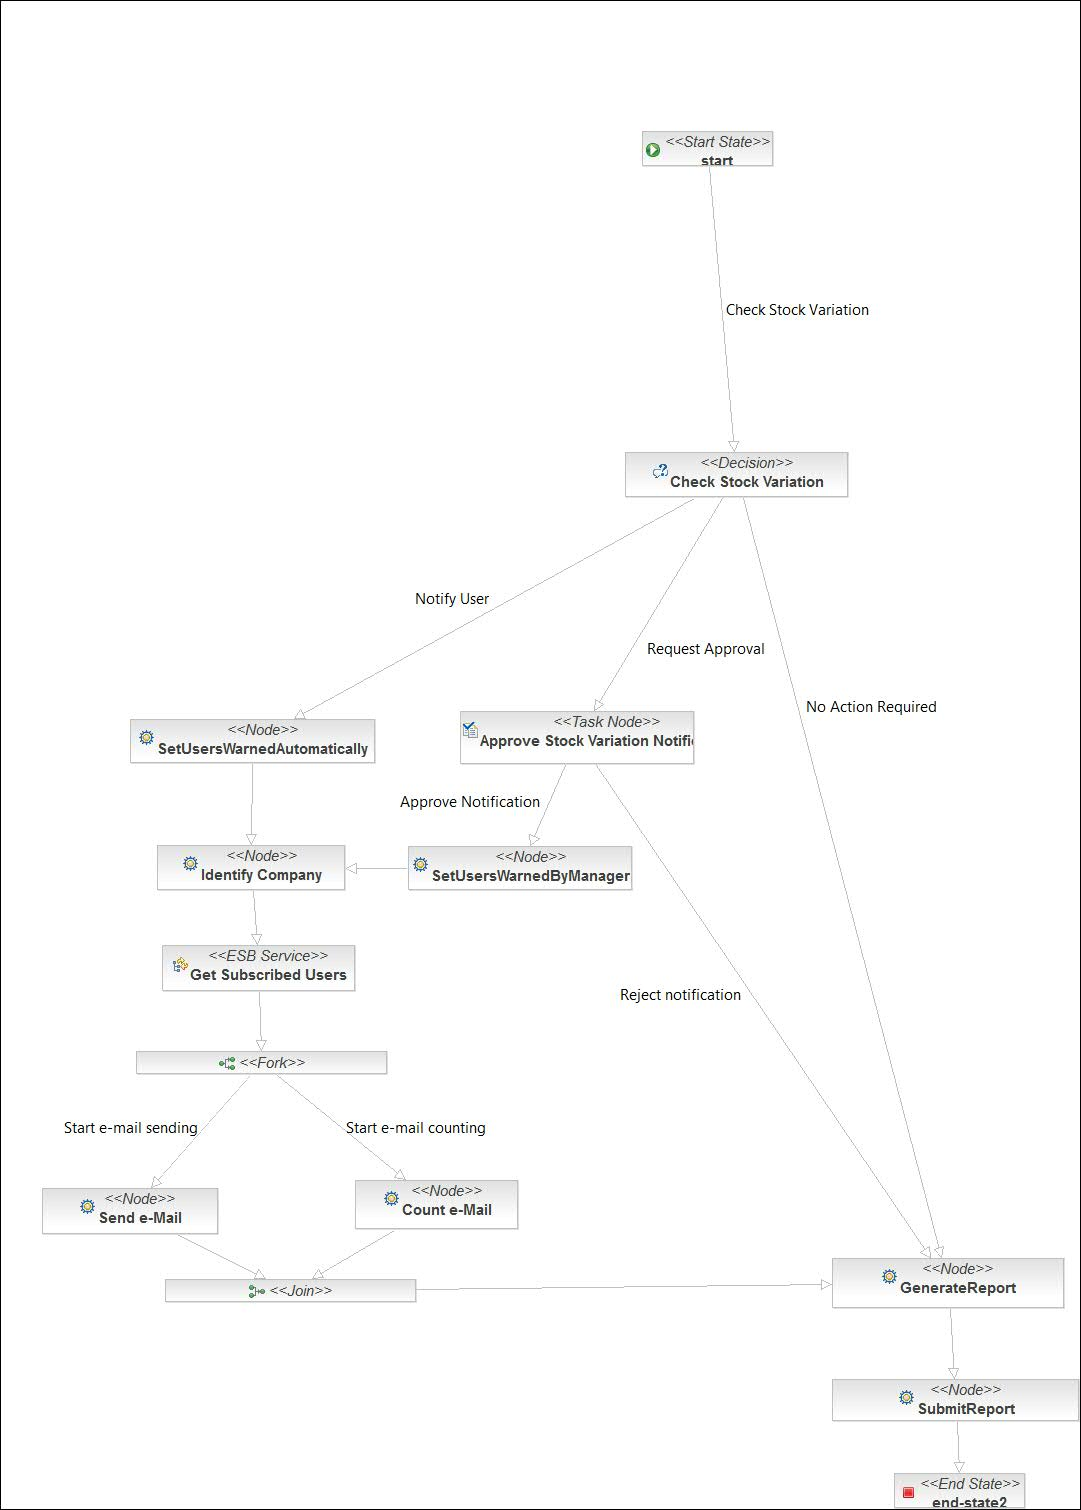
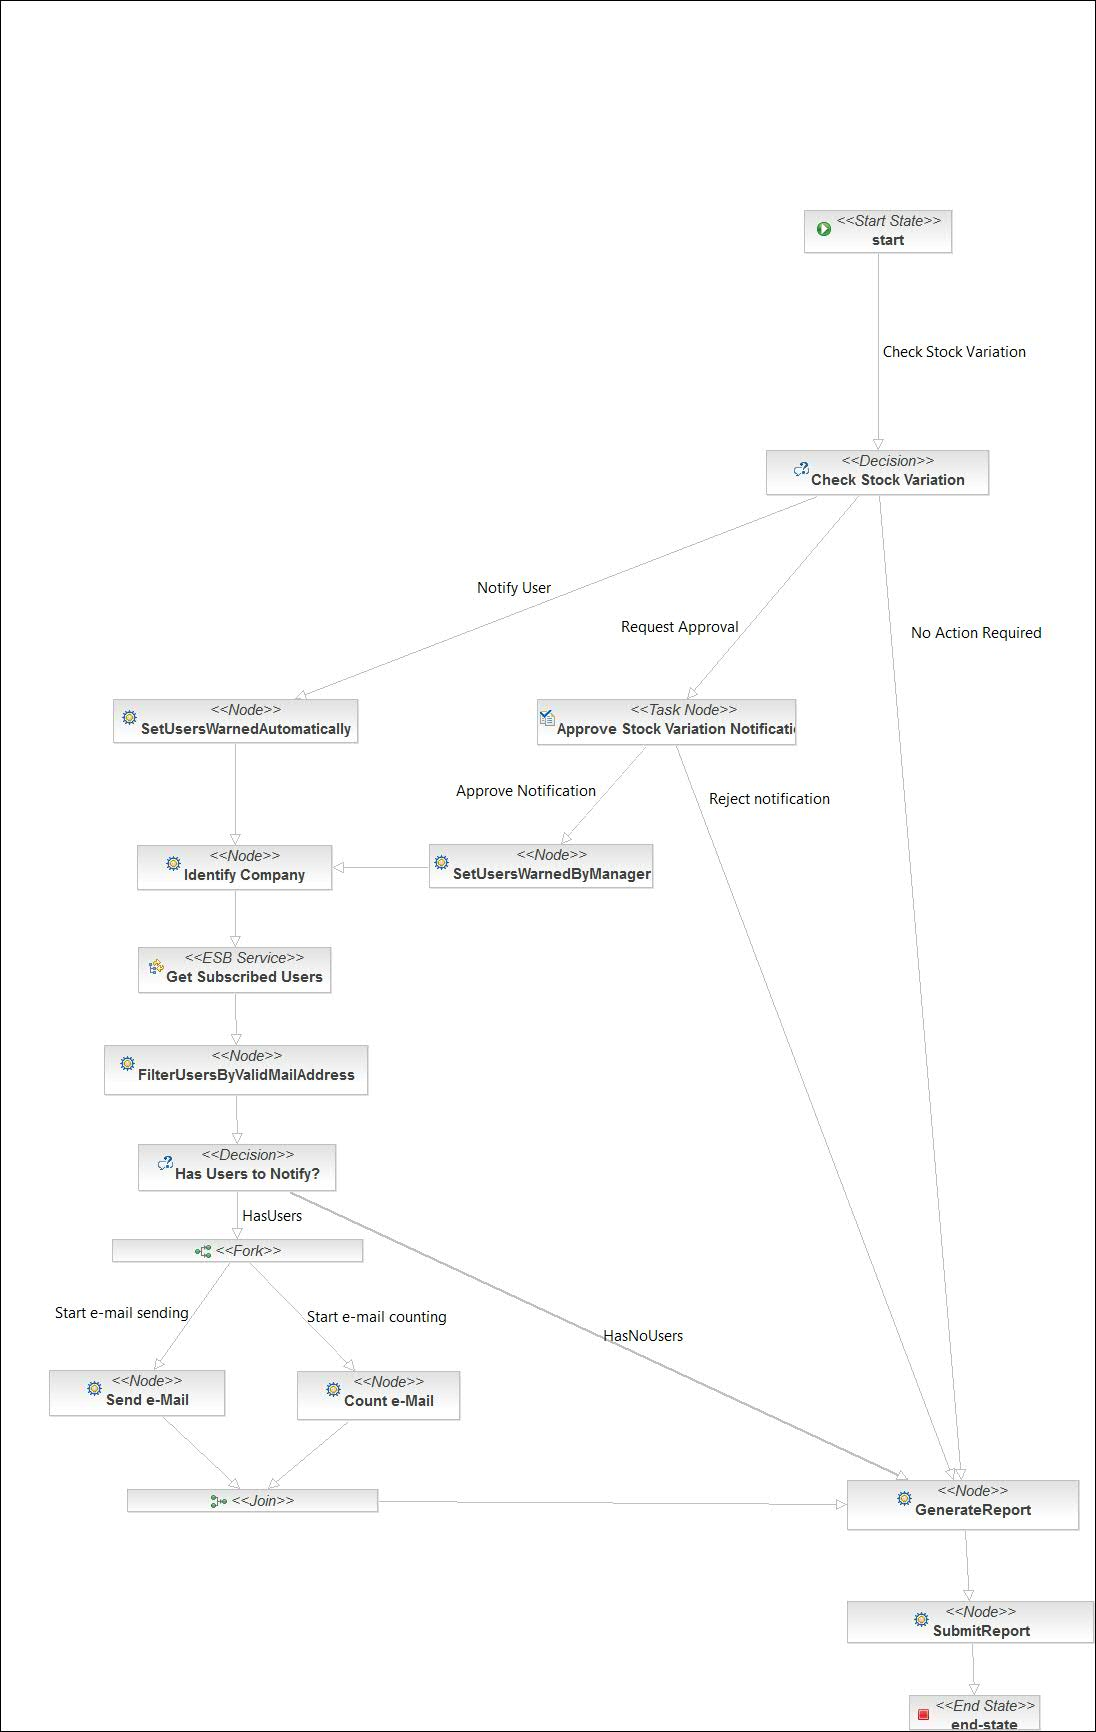
Add: Filter users that have a valid mail address Change: Count number of users to which mail is send

diff --git a/Project3/JBPMServices/src/jbpm/eai/msejdf/jbpm/actions/GenerateReport.java b/Project3/JBPMServices/src/jbpm/eai/msejdf/jbpm/actions/GenerateReport.java
@@ -1,11 +1,14 @@
 package eai.msejdf.jbpm.actions;
 
 
+import java.util.List;
+
 import org.apache.log4j.Logger;
 import org.jbpm.graph.def.ActionHandler;
 import org.jbpm.graph.exe.ExecutionContext;
 
 import eai.msejdf.esb.Report;
+import eai.msejdf.esb.User;
 import eai.msejdf.utils.SOAMessageConstants;
 
 public class GenerateReport implements ActionHandler {
@@ -22,22 +25,31 @@ public class GenerateReport implements ActionHandler {
 			logger.debug("execute - start"); //$NON-NLS-1$
 		}
 		
-		// These objects hold integer counters if not null
+		// These objects hold boolean if not null
 		Object objWarnedAuto = context.getContextInstance().getVariable(SOAMessageConstants.STATUS_REPORT_USERS_WARNED_AUTOMATICALLY);
 		Object objWarnedManager = context.getContextInstance().getVariable(SOAMessageConstants.STATUS_REPORT_USERS_WARNED_BY_MANAGER);
 		
-		int warnedAuto = (int) ((null == objWarnedAuto) ? 0 : (int) objWarnedAuto);
-		int warnedManager = (int) ((null == objWarnedManager) ? 0 : (int) objWarnedManager);
+		boolean warnedAuto = (boolean) ((null == objWarnedAuto) ? false : (boolean) objWarnedAuto);
+		boolean warnedManager = (boolean) ((null == objWarnedManager) ? false : (boolean) objWarnedManager);
 
+		@SuppressWarnings("unchecked")
+		List<User> userList = (List<User>)context.getContextInstance().getVariable(SOAMessageConstants.JBPM_USER_LIST);
+		
+		int userCount = (null == userList) ? 0 : userList.size();
+		
+		// Set the count for the number of users warned automatically or by the manager. They are mutually exclusive
+		int warnedAutoCount = warnedAuto ? userCount : 0;
+		int warnedManagerCount = warnedManager ? userCount : 0;
+		
 		// Create the report
 		Report report = new Report();		
-		report.setUsersWarnedAutomatically(warnedAuto);
-		report.setUsersWarnedByManager(warnedManager);
+		report.setUsersWarnedAutomatically(warnedAutoCount);
+		report.setUsersWarnedByManager(warnedManagerCount);
 		
 		if (logger.isInfoEnabled())
 		{
-			logger.info("Users warned automatically = " + warnedAuto); //$NON-NLS-1$
-			logger.info("Users warned by manager = " + warnedManager); //$NON-NLS-1$
+			logger.info("Users warned automatically = " + warnedAutoCount); //$NON-NLS-1$
+			logger.info("Users warned by manager = " + warnedManagerCount); //$NON-NLS-1$
 		}
 		
 		//Replace the message body with the report
@@ -48,5 +60,4 @@ public class GenerateReport implements ActionHandler {
 			logger.debug("execute - end"); //$NON-NLS-1$
 		}
 	}
-
 }

diff --git a/Project3/JBPMServices/src/jbpm/eai/msejdf/jbpm/actions/FilterUsersByValidMailAddress.java b/Project3/JBPMServices/src/jbpm/eai/msejdf/jbpm/actions/FilterUsersByValidMailAddress.java
@@ -1,0 +1,47 @@
+package eai.msejdf.jbpm.actions;
+
+
+import java.util.ArrayList;
+import java.util.List;
+
+import org.jbpm.graph.def.ActionHandler;
+import org.jbpm.graph.exe.ExecutionContext;
+
+import eai.msejdf.esb.User;
+import eai.msejdf.utils.SOAMessageConstants;
+
+public class FilterUsersByValidMailAddress implements ActionHandler {
+
+	private static final long serialVersionUID = 1L;
+	
+	public void execute(ExecutionContext context) throws Exception {
+		
+		@SuppressWarnings("unchecked")
+		List<User> userList = (List<User>)context.getContextInstance().getVariable(SOAMessageConstants.JBPM_USER_LIST);
+
+		if (null == userList)
+		{
+			// No users to filter
+			return;
+		}
+		
+		List<User> filteredUserList = new ArrayList<User>();
+		
+		// Fill filtered user list with users that have a valid e-mail address
+		for(User user : userList)
+		{
+			if (false != validateMail(user.getMailAddress()))
+			{
+				filteredUserList.add(user);
+			}
+		}	
+		context.getContextInstance().setVariable(SOAMessageConstants.JBPM_USER_LIST, filteredUserList);			
+	}
+	
+	private boolean validateMail(String mailAddress)
+	{
+		// For now, the validation consists in checking only that an e-mail address is supplied, but
+		// additional checks (syntax, etc.) could be included if necessary
+		return (null == mailAddress);
+	}
+}

diff --git a/Project3/JBPMServices/src/jbpm/eai/msejdf/jbpm/actions/UserListEmptyDecisionHandler.java b/Project3/JBPMServices/src/jbpm/eai/msejdf/jbpm/actions/UserListEmptyDecisionHandler.java
@@ -1,0 +1,29 @@
+
+package eai.msejdf.jbpm.actions;
+
+import java.util.List;
+
+import org.jbpm.graph.exe.ExecutionContext;
+import org.jbpm.graph.node.DecisionHandler;
+import eai.msejdf.esb.User;
+import eai.msejdf.utils.SOAMessageConstants;
+
+public class UserListEmptyDecisionHandler implements DecisionHandler  {
+
+	public static final String LIST_HAS_NO_USERS = "HasNoUsers";
+	public static final String LIST_HAS_USERS = "HasUsers";
+	
+	private static final long serialVersionUID = 1L;
+
+	public String decide(ExecutionContext executionContext) throws Exception 
+	{
+		@SuppressWarnings("unchecked")
+		List<User> userList = (List<User>)executionContext.getContextInstance().getVariable(SOAMessageConstants.JBPM_USER_LIST);
+		
+		if ((null == userList) || (userList.isEmpty()))
+		{
+			return UserListEmptyDecisionHandler.LIST_HAS_NO_USERS;
+		}
+		return UserListEmptyDecisionHandler.LIST_HAS_USERS;
+	}
+}

diff --git a/Project3/JBPMServices/src/jbpm/eai/msejdf/jbpm/actions/SetUsersWarnedAutomatically.java b/Project3/JBPMServices/src/jbpm/eai/msejdf/jbpm/actions/SetUsersWarnedAutomatically.java
@@ -8,15 +8,13 @@ import eai.msejdf.utils.SOAMessageConstants;
 
 public class SetUsersWarnedAutomatically implements ActionHandler {
 	
-	private static final int USERS_WARNED_COUNT = 1;
-
 	private static final long serialVersionUID = 1L;
 	
 	public void execute(ExecutionContext context) throws Exception {
 
 		context.getContextInstance().createVariable(
 				SOAMessageConstants.STATUS_REPORT_USERS_WARNED_AUTOMATICALLY, 
-				SetUsersWarnedAutomatically.USERS_WARNED_COUNT);
+				true);
 	}
 
 }

diff --git a/Project3/JBPMServices/src/jbpm/eai/msejdf/jbpm/actions/SetUsersWarnedByManager.java b/Project3/JBPMServices/src/jbpm/eai/msejdf/jbpm/actions/SetUsersWarnedByManager.java
@@ -16,6 +16,6 @@ public class SetUsersWarnedByManager implements ActionHandler {
 
 		context.getContextInstance().createVariable(
 				SOAMessageConstants.STATUS_REPORT_USERS_WARNED_BY_MANAGER, 
-				SetUsersWarnedByManager.USERS_WARNED_COUNT);
+				true);
 	}
 }
